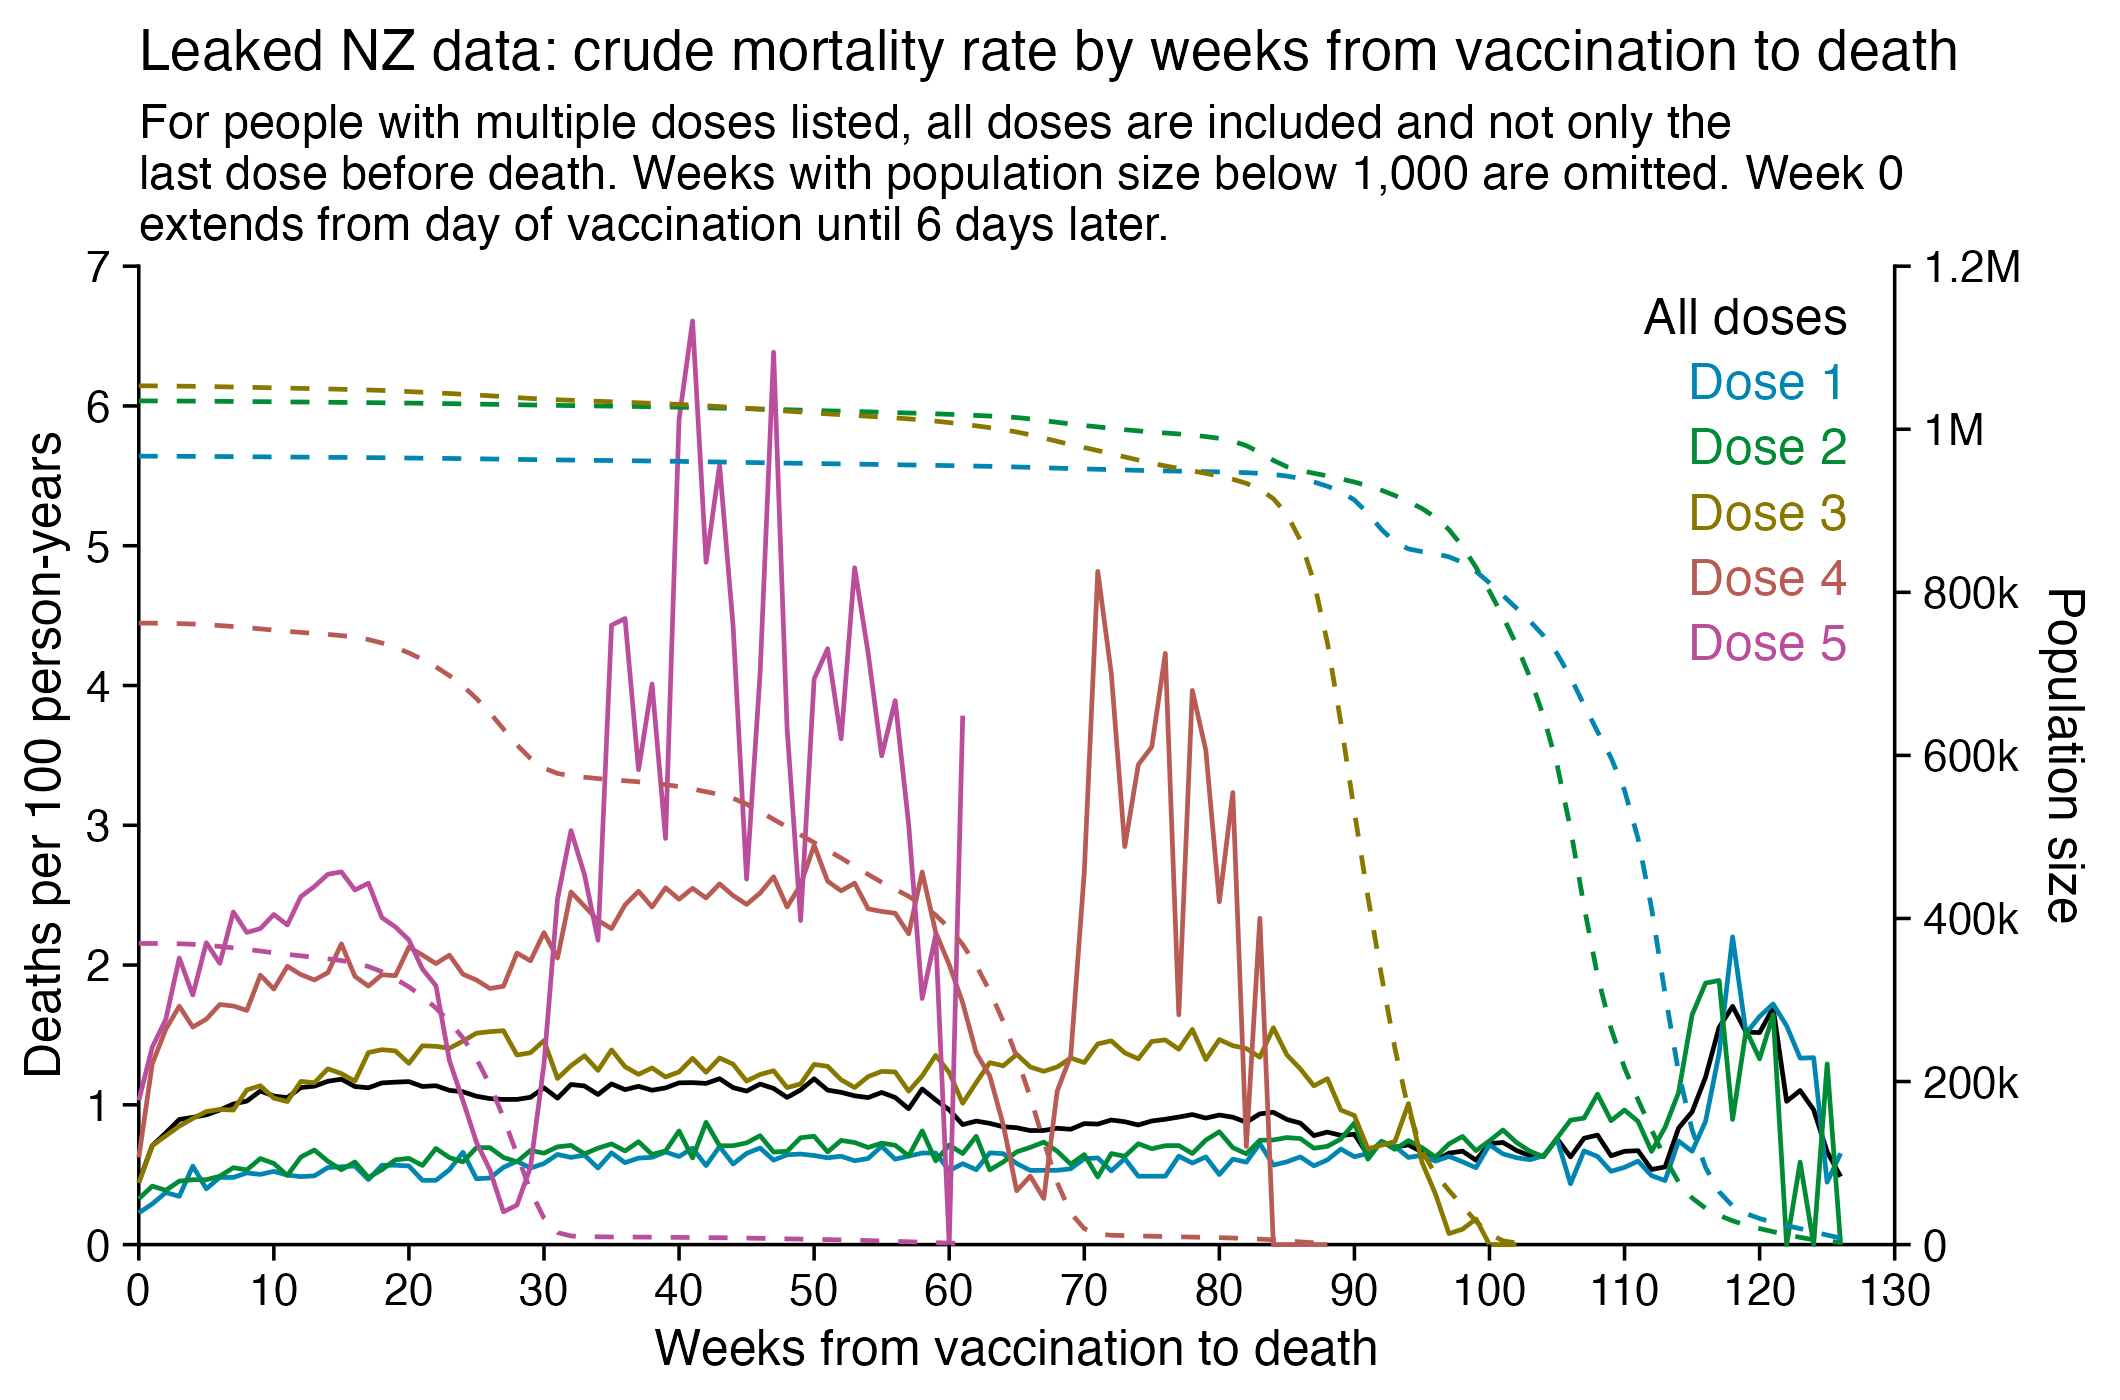
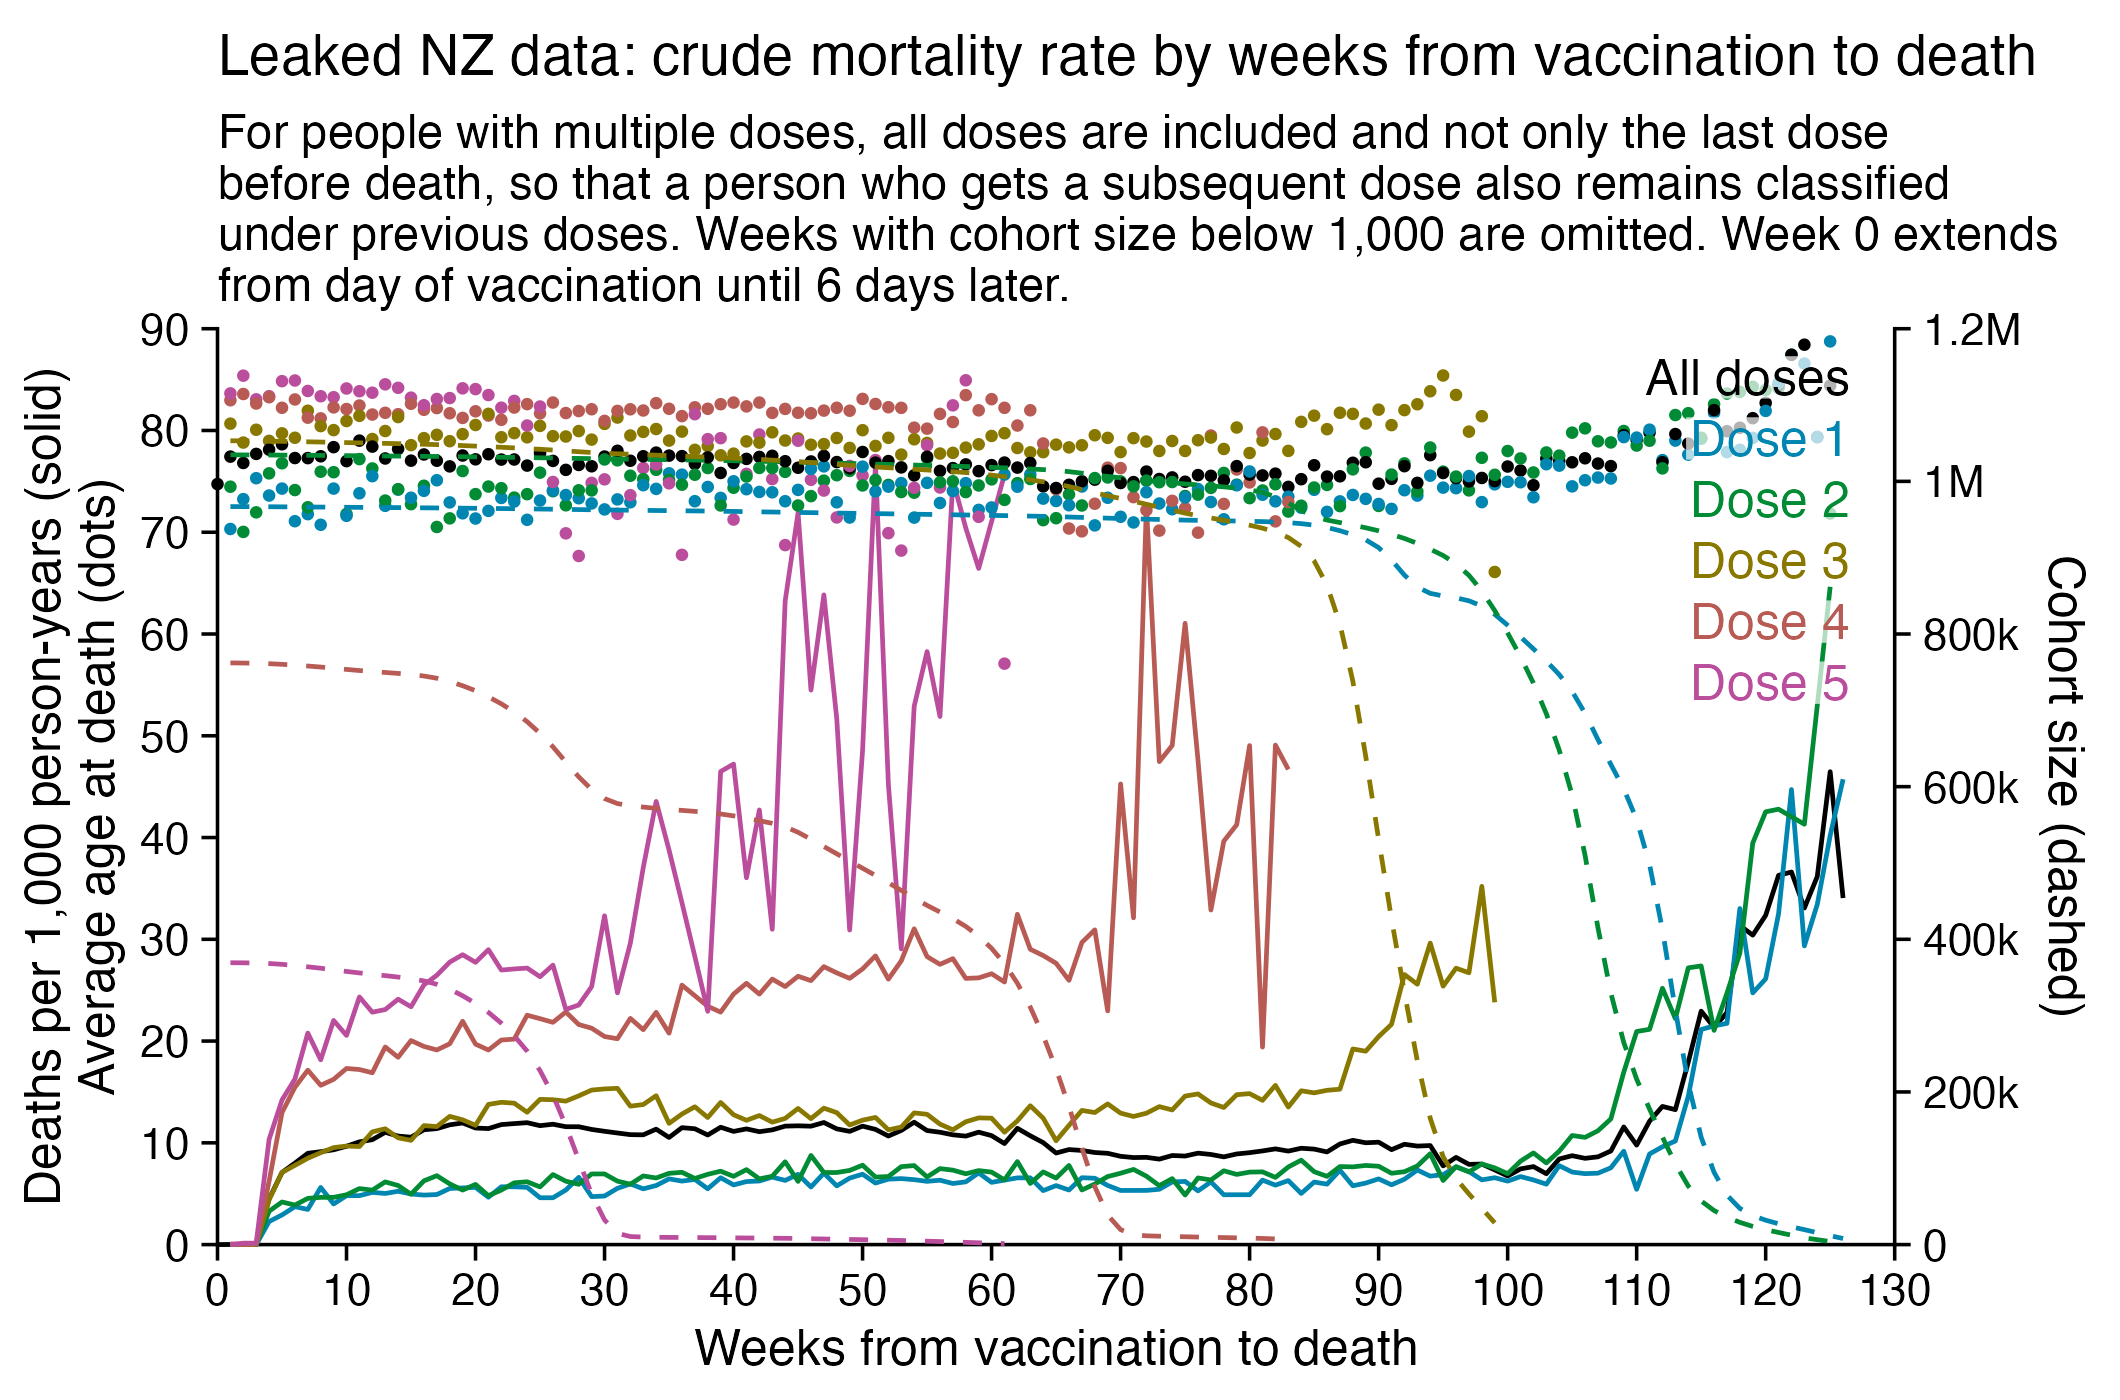
a

diff --git a/moar.html b/moar.html
@@ -409,10 +409,15 @@ weeks=51
 date1=max(t$date_of_death,na.rm=T)
 date2=date1-weeks*7+1
 t=t[t$date_time_of_service&lt;=date2,]
-t=t[t$date_of_death-t$date_time_of_service&lt;weeks*7,]
 t=t[t$date_time_of_service&lt;=t$date_of_death,]
 t=t[t$dose_number&lt;=4,]
+
 doses=table(t$dose_number)
+t=t[t$date_of_death-t$date_time_of_service&lt;weeks*7,]
+
+## t=t[rev(order(t$date_time_of_service)),]
+## t=t[!duplicated(t$mrn),]
+
 t=t[!is.na(t$date_of_death),]
 
 ta=as.data.frame(table(floor((t$date_of_death-t$date_time_of_service)/7),t$dose_number))
@@ -434,7 +439,7 @@ yend=ystep*ceiling(max(xy$y)/ystep)
 xbreak=seq(xstart,xend,xstep)
 ybreak=seq(ystart,yend,ystep)
 
-labels=data.frame(x=as.Date(xstart+.03*(xend-xstart)),y=seq(.97*yend,,-yend/15,nlevels(xy$z)),label=levels(xy$z))
+labels=data.frame(x=xstart+.03*(xend-xstart),y=seq(.97*yend,,-yend/15,nlevels(xy$z)),label=levels(xy$z))
 
 color=c(&quot;black&quot;,hcl(c(210,120,60,0,300)+15,70,50))
 
@@ -444,7 +449,7 @@ geom_vline(xintercept=xstart,color=&quot;black&quot;,linewidth=.3,lineend=&quot;
 geom_line(aes(color=z),size=.4)+
 geom_line(aes(y=a,color=z),linetype=2,size=.4)+
 geom_label(data=labels,aes(x=x,y=y,label=label),fill=alpha(&quot;white&quot;,.7),label.r=unit(0,&quot;lines&quot;),label.padding=unit(.04,&quot;lines&quot;),label.size=0,color=color[1:nlevels(xy$z)],size=3.4,hjust=0,vjust=1)+
-labs(x=&quot;Weeks from vaccination to death&quot;,y=&quot;Deaths per thousand doses&quot;,title=paste0(&quot;Deaths per thousand doses by weeks since vaccination, last time of death &quot;,date1,&quot;, last time of vaccination &quot;,date2,&quot; (&quot;,weeks,&quot;*7-1 days earlier). Week 0 extends from day of vaccination to 6 days later.&quot;)|&gt;stringr::str_wrap(70))+
+labs(x=&quot;Weeks from vaccination to death&quot;,y=&quot;Deaths per thousand doses&quot;,title=paste0(&quot;Deaths per thousand doses by weeks since vaccination, last time of death &quot;,date1,&quot;, last time of vaccination &quot;,date2,&quot; (&quot;,weeks,&quot;*7-1 days earlier). Week 0 extends from day of vaccination to 6 days later. For people with multiple doses, all doses are included and not only the most recent dose.&quot;)|&gt;stringr::str_wrap(70))+
 coord_cartesian(clip=&quot;off&quot;)+
 scale_x_continuous(limits=c(xstart,xend),breaks=xbreak,expand=c(0,0))+
 scale_y_continuous(limits=c(ystart,yend),breaks=ybreak,expand=c(0,0))+
@@ -463,8 +468,9 @@ theme(
   plot.title=element_text(size=10)
 )
 
-ggsave(&quot;1.png&quot;,width=5,height=3.5)</pre>
-<p>Next I tried calculating a crude mortality rate for each dose so that I divided the number of deaths each week with the number of people who had received a dose that week. Now there's an increase in crude mortality rate of each dose after the sample size becomes small, because then a large part of the population consists of old and vulnerable people who received the dose the earliest:</p>
+ggsave(&quot;1.png&quot;,width=5,height=3.5)
+system(&quot;mogrify -trim -border 24 -bordercolor white 1.png&quot;)</pre>
+<p>Next I tried calculating a crude mortality rate for each dose so that I divided the number of deaths each week with the number of people who had received a dose that week. Now there was an increase in crude mortality rate of each dose after the sample size becomes small, which I though was probably because then a large part of the population consists of old or vulnerable people who received the dose the earliest. However when I also included the average age of dead persons in the plot, at the point when the cohort size went close to zero and mortality rate shot up, for some reason the age at death decreased for the 4th and 5th doses even though it increased for the first three does:</p>
 <div class="width7">
 <img src="i/moar-days-to-death-by-dose-5.png">
 </div>
@@ -482,18 +488,23 @@ maxdate=max(t$date_of_death,na.rm=T)
 pop=table(floor((pmin(t$date_of_death,maxdate,na.rm=T)-t$date_time_of_service)/7),t$dose_number)|&gt;apply(2,\(x)rev(cumsum(rev(x))))
 
 doses=table(t$dose_number)
-t=t[!is.na(t$date_of_death),]
+dead=t[!is.na(t$date_of_death),]
 
-death=as.data.frame(table(floor((t$date_of_death-t$date_time_of_service)/7),t$dose_number))
-death=death[as.numeric(death$Var2)&lt;=maxdose,]
-pops=pop[cbind(death$Var1,death$Var2)]
-xy=data.frame(x=as.numeric(levels(death$Var1)),y=c(death$Freq)/pops,z=paste0(&quot;Dose &quot;,death$Var2),pop=pops)
+age=aggregate(as.numeric((dead$date_time_of_service-dead$date_of_birth)/365.2422),list(as.numeric(floor((dead$date_of_death-dead$date_time_of_service)/7)),dead$dose_number),mean)
 
-tap=tapply(death$Freq,factor(death$Var1,rownames(pop)),sum)
-xy=rbind(data.frame(x=as.numeric(names(tap)),y=tap/rowSums(pop),z=&quot;All doses&quot;,pop=rowSums(pop)),xy)
+death=floor((dead$date_of_death-dead$date_time_of_service)/7)|&gt;table(dead$dose_number)|&gt;as.data.frame()|&gt;sapply(as.numeric)
 
-xy$y=xy$y*365.2422/7*100
-xy$z=factor(xy$z,unique(xy$z))
+death=merge(death,age,by=c(1,2),all=T)
+death=death[death$Var2&lt;=maxdose,]
+pops=pop[cbind(as.character(death$Var1),as.character(death$Var2))]
+xy=data.frame(x=death$Var1,y=death$Freq/pops,z=paste0(&quot;Dose &quot;,death$Var2),pop=pops,age=death[,4])
+
+ages=split(xy,xy$x)|&gt;sapply(\(x)weighted.mean(x$age,x$pop,na.rm=T))
+tap=tapply(death$Freq,factor(death$Var1,rownames(pop)),sum,na.rm=T)
+xy=rbind(data.frame(x=as.numeric(names(tap)),y=tap/rowSums(pop),z=&quot;All doses&quot;,pop=rowSums(pop),age=ages[names(tap)]),xy)
+
+xy$y=xy$y*365.2422/7*1e3
+xy$z=factor(xy$z,sort(unique(xy$z)))
 xy$y[xy$pop&lt;1e3]=NA
 xy=na.omit(xy)
 xy$trend=split(xy,xy$z)|&gt;lapply(\(i)predict(lm(y~x,i),i))|&gt;unlist()
@@ -504,11 +515,14 @@ candidates=c(sapply(c(1,2,5),\(x)x*10^c(-10:10)))
 ystep=candidates[which.min(abs(candidates-max(xy$y)/6))]
 ystart=0
 yend=ystep*ceiling(max(xy$y)/ystep)
+yend=90
 xbreak=seq(xstart,xend,xstep)
 ybreak=seq(ystart,yend,ystep)
 ystep2=candidates[which.min(abs(candidates-max(xy$pop,na.rm=T)/6))]
 yend2=ceiling(max(xy$pop,na.rm=T)/ystep2)*ystep2
 secmult=yend/yend2
+
+xy=xy[sample(nrow(xy)),]
 
 color=c(&quot;black&quot;,hcl(c(210,120,60,0,310,260)+15,70,50))
 
@@ -520,13 +534,14 @@ ggplot(xy,aes(x,y))+
 geom_hline(yintercept=c(ystart),color=&quot;black&quot;,linewidth=.3,lineend=&quot;square&quot;)+
 geom_vline(xintercept=c(xstart,xend),color=&quot;black&quot;,linewidth=.3,lineend=&quot;square&quot;)+
 geom_line(aes(color=z),linewidth=.4)+
+geom_point(aes(y=age,color=z),size=.4)+
 geom_line(aes(y=pop*secmult,color=z),linewidth=.4,linetype=2)+
 # geom_line(aes(y=trend,color=z),linetype=2,size=.4)+
 geom_label(data=labels,aes(x=x,y=y,label=label),fill=alpha(&quot;white&quot;,.7),label.r=unit(0,&quot;lines&quot;),label.padding=unit(.04,&quot;lines&quot;),label.size=0,color=color[1:nlevels(xy$z)],size=3.2,hjust=1,vjust=1)+
-labs(x=&quot;Weeks from vaccination to death&quot;,y=&quot;Deaths per 100 person-years&quot;,title=&quot;Leaked NZ data: crude mortality rate by weeks from vaccination to death&quot;,subtitle=&quot;For people with multiple doses listed, all doses are included and not only the last dose before death. Weeks with population size below 1,000 are omitted. Week 0 extends from day of vaccination until 6 days later.&quot;|&gt;stringr::str_wrap(84))+
+labs(x=&quot;Weeks from vaccination to death&quot;,y=&quot;Deaths per 1,000 person-years (solid)\nAverage age at death (dots)&quot;,title=&quot;Leaked NZ data: crude mortality rate by weeks from vaccination to death&quot;,subtitle=&quot;For people with multiple doses, all doses are included and not only the last dose before death, so that a person who gets a subsequent dose also remains classified under previous doses. Weeks with cohort size below 1,000 are omitted. Week 0 extends from day of vaccination until 6 days later.&quot;|&gt;stringr::str_wrap(84))+
 coord_cartesian(clip=&quot;off&quot;)+
 scale_x_continuous(limits=c(xstart,xend),breaks=xbreak,expand=c(0,0))+
-scale_y_continuous(limits=c(ystart,yend),breaks=ybreak,expand=c(0,0),sec.axis=sec_axis(trans=~./secmult,breaks=seq(0,yend2,ystep2),name=&quot;Population size&quot;,labels=kimi))+
+scale_y_continuous(limits=c(ystart,yend),breaks=ybreak,expand=c(0,0),sec.axis=sec_axis(trans=~./secmult,breaks=seq(0,yend2,ystep2),name=&quot;Cohort size (dashed)&quot;,labels=kimi))+
 scale_color_manual(values=color)+
 theme(
   axis.text=element_text(size=8,color=&quot;black&quot;),
@@ -539,10 +554,103 @@ theme(
   panel.grid=element_blank(),
   plot.margin=margin(.3,.3,.3,.3,&quot;lines&quot;),
   plot.subtitle=element_text(size=8.5,margin=margin(0,0,.4,0,&quot;lines&quot;)),
-  plot.title=element_text(size=10.2,margin=margin(.1,0,.4,0,&quot;lines&quot;))
+  plot.title=element_text(size=10.2,margin=margin(.2,0,.5,0,&quot;lines&quot;))
 )
 
 ggsave(&quot;1.png&quot;,width=5.3,height=3.5,dpi=400)</pre>
+<p>One of the files generated by the <code>buckets.py</code> script shows mortality by month, dose number, and weeks since vaccination:</p>
+<pre>$ wget -q https://getdatatransparency.com/data-transparency.zip
+$ unzip data-transparency.zip
+[...]
+$ sed 3q data-transparency/New\ Zealand/time-series\ summaries/month_dose_week_single_age.txt|column -t
+month    dose  week  age  alive  dead
+2021-01  0     0     1    248    0
+2021-01  0     0     2    248    0</pre>
+<p>You can use the file to generate a plot for CMR by dose so that once a person has received a second dose, they are no longer included under the first dose. The plot shows that after around week 22 when the crude mortality rate of all doses begins to decrease, the average age of all doses also decreases. Kirsch said that the peak in mortality around weeks 20-25 was a sign of deaths caused by vaccines, but actually he should've calculated ASMR instead of CMR, or he should've stratified the CMR by age:</p>
+<div class="width7">
+<img src="i/moar-days-to-death-by-dose-6.png">
+</div>
+<p>R code:</p>
+<pre>library(ggplot2)
+
+t=read.table(&quot;data-transparency/New Zealand/time-series summaries/month_dose_week_single_age.txt&quot;,header=T)
+
+ag=aggregate(t[,c(5,6)],t[,c(2:4)],sum)
+ag=ag[ag$dose&lt;=5&amp;ag$dose&gt;0,]
+ag=merge(ag,aggregate(ag$alive,ag[,1:2],sum),by=1:2)
+colnames(ag)[6]=&quot;allagepop&quot;
+
+xy=aggregate(ag[,c(4:5)],ag[,1:2],sum)
+xy=merge(xy,aggregate(ag$age*ag$alive/ag$allagepop,ag[,c(1:2)],sum),by=1:2)
+colnames(xy)[5]=&quot;age&quot;
+xy$dose=paste0(&quot;Dose &quot;,xy$dose)
+
+total=aggregate(ag[,4:5],ag[,&quot;week&quot;,drop=F],sum)
+total$dose=&quot;All doses&quot;
+total$age=tapply(ag$age*ag$alive,ag$week,sum)/tapply(ag$alive,ag$week,sum)
+xy=rbind(total[,colnames(xy)],xy)
+
+xy$alive=xy$alive/12
+xy$cmr=xy$dead/xy$alive*365.2422/7*1e3
+
+xy$dose=factor(xy$dose,unique(xy$dose))
+minpop=1e4
+xy$cmr[xy$alive&lt;minpop]=NA
+xy=na.omit(xy)
+
+# xy$trend=split(xy,xy$dose)|&gt;lapply(\(i)predict(lm(cmr~week,i),i))|&gt;unlist()
+xy$alive[xy$dose==&quot;All doses&quot;]=NA
+
+xstart=0;xend=120;xstep=10
+candidates=c(sapply(c(1,2,5),\(x)x*10^c(-10:10)))
+ystep=candidates[which.min(abs(candidates-max(xy$cmr)/6))]
+ystart=0
+yend=ystep*ceiling(max(xy$cmr)/ystep)
+xbreak=seq(xstart,xend,xstep)
+ybreak=seq(ystart,yend,ystep)
+
+# ystep2=candidates[which.min(abs(candidates-max(xy$alive,na.rm=T)/6))]
+# yend2=ceiling(max(xy$alive,na.rm=T)/ystep2)*ystep2
+# secmult=yend/yend2
+
+xy=xy[sample(nrow(xy)),] # get random pattern of overlap between dots
+
+color=c(&quot;black&quot;,hcl(c(210,120,60,0,310,260)+15,70,50))
+
+labels=data.frame(x=as.Date(xstart+.975*(xend-xstart),&quot;1970-1-1&quot;),y=seq(.97*yend,,-yend/15,nlevels(xy$dose)),label=levels(xy$dose))
+
+kimi=\(x)ifelse(abs(x)&gt;=1e6,paste0(x/1e6,&quot;M&quot;),ifelse(abs(x)&gt;=1e3,paste0(x/1e3,&quot;k&quot;),x))
+
+ggplot(xy,aes(x=week,y=cmr))+
+geom_hline(yintercept=ystart,color=&quot;black&quot;,linewidth=.3,lineend=&quot;square&quot;)+
+geom_vline(xintercept=xstart,color=&quot;black&quot;,linewidth=.3,lineend=&quot;square&quot;)+
+geom_line(aes(color=dose),linewidth=.4)+
+geom_point(aes(y=age,color=dose),size=.4)+
+geom_line(aes(y=alive/1e4,color=dose),linewidth=.4,linetype=2)+
+# geom_line(aes(y=alive*secmult,color=dose),linewidth=.4,linetype=2)+
+# geom_line(aes(y=trend,color=z),linetype=2,size=.4)+
+geom_label(data=labels,aes(x=x,y=y,label=label),fill=alpha(&quot;white&quot;,.7),label.r=unit(0,&quot;lines&quot;),label.padding=unit(.04,&quot;lines&quot;),label.size=0,color=color[1:nlevels(xy$dose)],size=3.2,hjust=1,vjust=1)+
+labs(x=&quot;Weeks from vaccination to death&quot;,y=&quot;Deaths per 1,000 person-years (solid)\nAverage age (dots)\nCohort size times 10,000 (dashed)&quot;,title=&quot;Leaked NZ data: crude mortality rate by weeks from vaccination to death&quot;,subtitle=paste0(&quot;Based on month_dose_week_single_age.txt generated with buckets.py. People with multiple doses are only included under the most recent dose. Weeks with cohort size below &quot;,formatC(minpop,digits=0,format=&quot;f&quot;,big.mark=&quot;,&quot;),&quot; are omitted.&quot;)|&gt;stringr::str_wrap(84))+
+coord_cartesian(clip=&quot;off&quot;)+
+scale_x_continuous(limits=c(xstart,xend),breaks=xbreak,expand=c(0,0))+
+scale_y_continuous(limits=c(ystart,yend),breaks=ybreak,expand=c(0,0))+
+# scale_y_continuous(limits=c(ystart,yend),breaks=ybreak,expand=c(0,0),sec.axis=sec_axis(trans=~./secmult,breaks=seq(0,yend2,ystep2),name=&quot;Cohort size (dashed)&quot;,labels=kimi))+
+scale_color_manual(values=color)+
+theme(
+  axis.text=element_text(size=8,color=&quot;black&quot;),
+  axis.ticks=element_line(linewidth=.3,color=&quot;black&quot;),
+  axis.ticks.length=unit(.2,&quot;lines&quot;),
+  axis.title=element_text(size=9),
+  axis.title.y.right=element_text(margin=margin(0,0,0,5)),
+  legend.position=&quot;none&quot;,
+  panel.background=element_rect(fill=&quot;white&quot;),
+  panel.grid=element_blank(),
+  plot.margin=margin(.3,.8,.3,.3,&quot;lines&quot;),
+  plot.subtitle=element_text(size=8.5,margin=margin(0,0,.4,0,&quot;lines&quot;)),
+  plot.title=element_text(size=10.2,margin=margin(.2,0,.5,0,&quot;lines&quot;))
+)
+
+ggsave(&quot;1.png&quot;,width=5.5,height=3.5,dpi=400)</pre>
 <h3>
 <a href=#Distribution_of_vaccine_doses_given_per_day id=Distribution_of_vaccine_doses_given_per_day>Distribution of vaccine doses given per day</a>
 </h3>
@@ -615,6 +723,7 @@ mrn   batch_id   dose_number   date_time_of_service   date_of_death   vaccine_na
 <img src="i/moar-age-reverse-engineer.png">
 </div>
 <p>In an X Space where Kirsch was asked to describe the obfuscation procedure, he said: <span class="quote">&quot;The transformation is very unlikely to have shifted someone's data by over 30 days. It's very unlikely to have shifted someone's data by over 10 days.&quot;</span> [<a href="https://twitter.com/stkirsch/status/1733531453978489209">https://twitter.com/stkirsch/status/1733531453978489209</a>, time 19:31] So maybe the number of days is selected using a random variable with a normal distribution, so the maximum number of days can be even higher than 7 or 8. In fact when I repeated my procedure above but I checked all records instead of only the first 100,000 records, the peak date was on December 2nd 2023, and the maximum non-zero date was on December 11th 2024, so there may have been a single person who was born on November 30th or December 1st but whose birthday was shifted 11 or 10 days forwards (depending on whether the age column corresponds to the age on December 1st or 2nd).</p>
+<p>Later Kirsch tweeted: <span class="quote">&quot;I've updated the data-transparency/New Zealand/code directory with the obfuscation algorithm we used on the Health New Zealand data. It's 3 lines of code. [...] essentially all dates are shifted by a non-zero random number picked from a normal distribution centered on zero.&quot;</span> [<a href="https://twitter.com/stkirsch/status/1733655982843273357">https://twitter.com/stkirsch/status/1733655982843273357</a>]</p>
 <h3>
 <a href=#Statistics_relative_to_date_of_vaccination id=Statistics_relative_to_date_of_vaccination>Statistics relative to date of vaccination</a>
 </h3>
